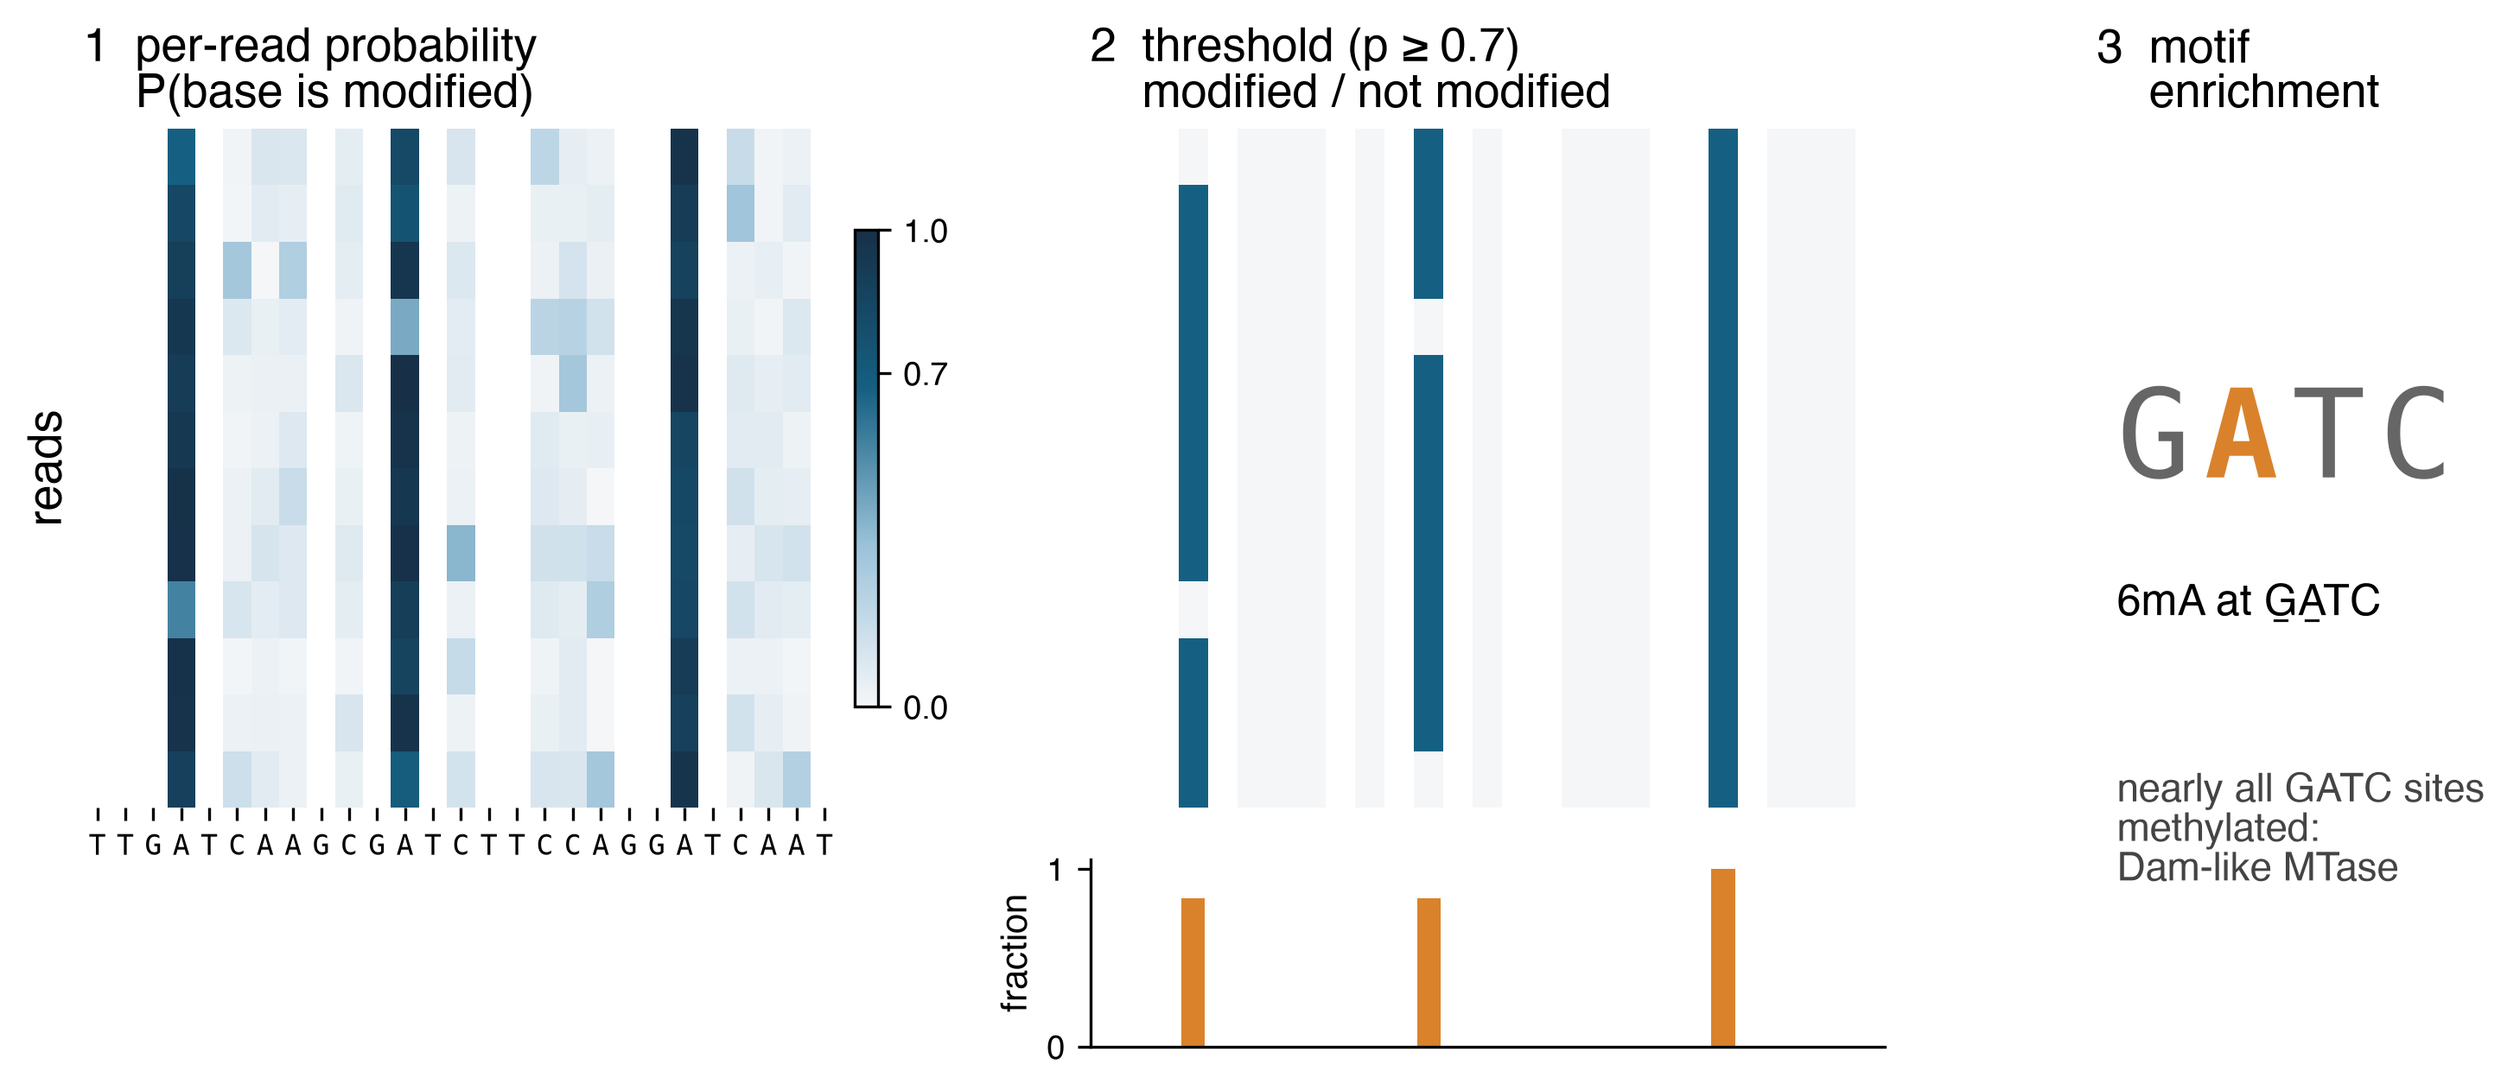
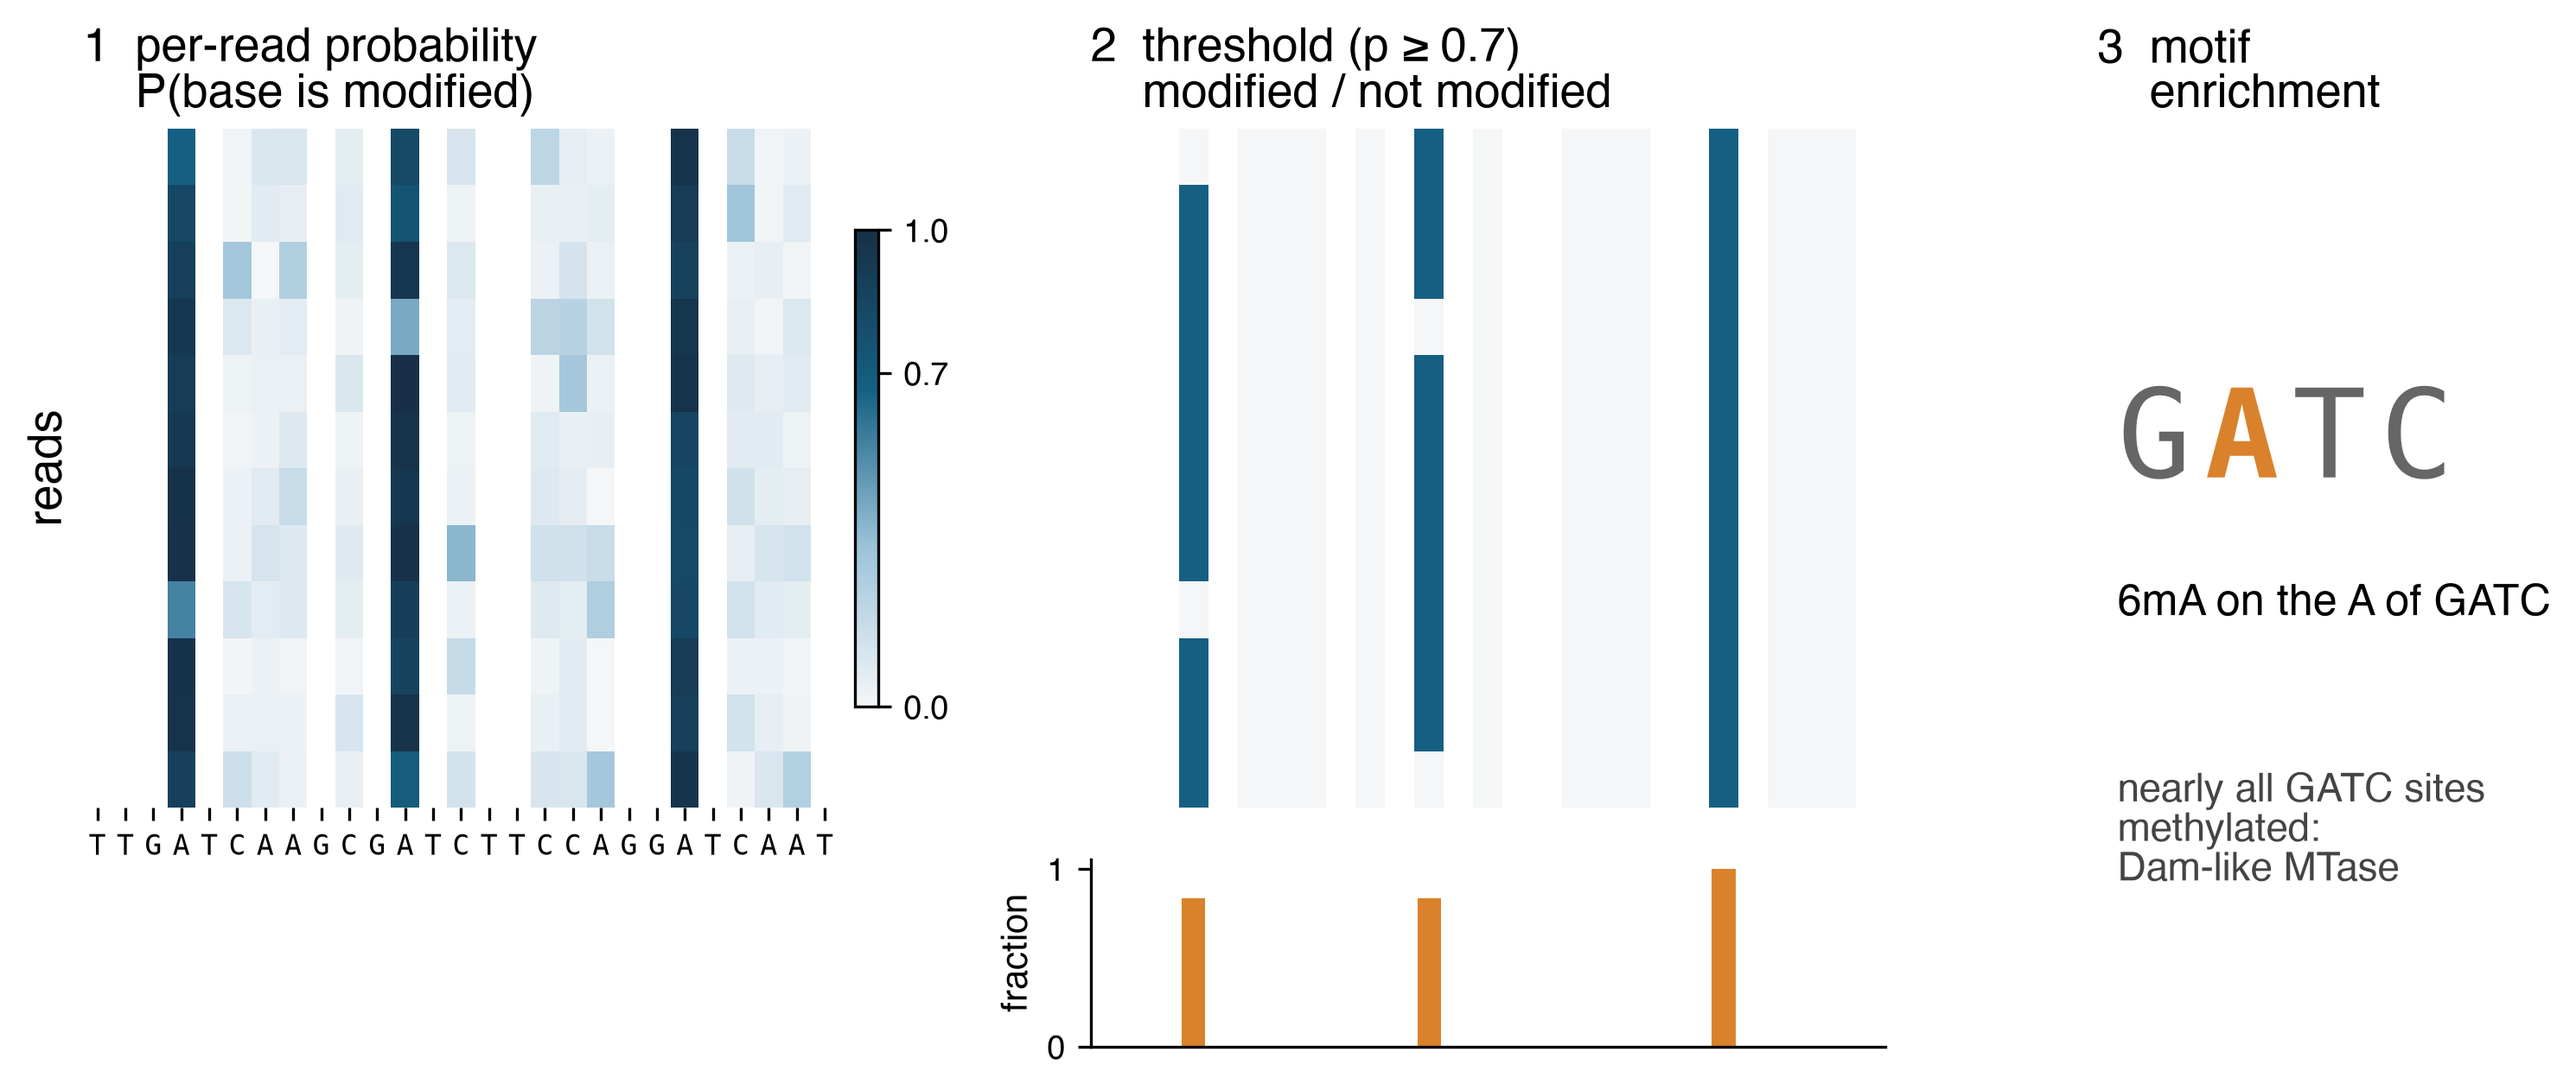
v04: cut main talk to 33 slides (~39.5 min), automatic note timings
- 2023 benchmark, raw-signal dataset, pipeline, lab reproducibility and
  unseen-species slides moved to the appendix (labelled APPENDIX)
- merged: calls-to-motifs + pipeline; methylation profiles + reproducibility
- speaker-note timings computed from a per-slide duration table
- schematic: fix motif label

diff --git a/scripts/build_deck.py b/scripts/build_deck.py
@@ -24,7 +24,7 @@ from pptx.opc.constants import RELATIONSHIP_TYPE as RT
 from pptx.oxml.ns import qn
 from pptx.util import Emu, Inches, Pt
 
-VERSION = "v03"
+VERSION = "v04"
 REPO = "github.com/hoelzer/habil-talk-2026"   # public repo, created 2026-11-18
 ROOT = Path(__file__).resolve().parents[1]
 SRC = ROOT / "2026-FU-Habil-Hoelzer-Talk.pptx"
@@ -355,14 +355,18 @@ add_text(s, ["5 labs · 4 species · > 500 datasets",
              "R10.4.1, same chemistry everywhere",
              ("Errors are strain-specific", {"bold": True}),
              ("… and occur in every lab", {"bold": True}),
-             "Some strains far above the cluster threshold"],
+             "Some strains far above the cluster threshold",
+             ("Before (2023): fine for some species, not for all", {"color": GREY, "size": 12})],
          7.0, TT, 2.8, TH, size=13, bullets=True, space=6)
 takeaway(s, "Same chemistry, same strain: the genotype is not always reproducible.", "II")
-cite(s, "Dabernig-Heinz, Lohde, Hölzer et al. J Clin Microbiol 2024, 62:e00628-24")
+cite(s, "Dabernig-Heinz, Lohde, Hölzer et al. J Clin Microbiol 2024, 62:e00628-24; Linde, Brangsch, Hölzer et al. BMC Genomics 2023")
 notes(s, """
 [14 min, 1.5 min] Multicenter study (Graz, Jena, Greifswald, Vienna, RKI). Each lab
 sequenced the same strains. Plot: allele differences to the Illumina reference, per lab;
 line = cluster threshold. Most strains fine, a few strains wrong in every lab.
+One sentence on the history: our 2023 benchmark with FLI (B. anthracis, Brucella,
+Francisella) already showed that ONT typing worked for some species but not for all
+(details in the appendix).
 """)
 S["p2024"] = s
 
@@ -522,16 +526,22 @@ S["rm"] = s
 
 s = O(23)
 remove_shapes(s)
-set_title(s, "From probabilistic calls to motifs")
-add_fig(s, G / "fig_calls_to_motif.png", 0.3, 0.78, 9.4, 3.75)
+set_title(s, "From probabilistic calls to motifs, automated")
+add_fig(s, G / "fig_calls_to_motif.png", 0.3, 0.9, 6.3, 3.5)
+add_fig(s, ROOT / "figures/received/valentina-workflow.png", 6.75, 0.85, 3.0, 2.0)
+add_text(s, ["ont-methylation: Dorado → alignment → modkit → motifs",
+             ("Nextflow; proposed to nf-core", {"bold": True})],
+         6.8, 2.95, 2.95, 1.4, size=12, bullets=True, space=4)
 takeaway(s, "Choices matter: probability threshold, coverage, partially methylated sites.", "III")
-cite(s, "Schematic (toy data). Threshold 0.7 as in Galeone et al. BMC Genomics 2025")
+cite(s, "Schematic (toy data); threshold 0.7 as in Galeone et al. BMC Genomics 2025. Pipeline: github.com/rki-mf1/ont-methylation")
 notes(s, """
 [26.5 min, 1.5 min] The computational chain. (1) The basecaller reports, per read and per
 base, a probability that the base is modified. (2) We threshold (0.7, from our 2025
 benchmark). (3) Per genome position: fraction of reads called modified. (4) Motif search:
 which short sequences are (almost) always modified? Partial methylation and low coverage
 make steps 2-4 uncertain.
+Right: Valentina's Nextflow pipeline automates exactly this chain (Dorado with modification
+models, alignment, modkit pileup and motif search, reports); proposed to nf-core.
 """)
 S["calls"] = s
 
@@ -555,13 +565,18 @@ S["pipeline"] = s
 
 s = O(25)
 remove_shapes(s)
-add_fig(s, C / "phd_methyl_table.png", 0.3, 0.78, 9.4, 3.8)
-takeaway(s, "Each strain has its own motif set — known and new motifs.", "III")
-cite(s, "Galeone, Dabernig-Heinz, Lohde, Brandt, Kohler, Wagner, Hölzer. BMC Genomics 2025, 26:394")
+set_title(s, "Distinct and reproducible methylation profiles")
+add_fig(s, C / "phd_methyl_table.png", 0.3, 0.78, 5.9, 3.8)
+add_fig(s, P / "p5_methylome_bmc2025/img-003.png", 6.35, 0.78, 3.4, 3.8)
+takeaway(s, "Each strain has its own motif set — and three labs agree on it.", "III")
+cite(s, "Galeone, Dabernig-Heinz, Lohde, Brandt, Kohler, Wagner, Hölzer. BMC Genomics 2025, 26:394 (table: V. Galeone)")
 notes(s, """
 [29 min, 1.5 min] Four public-health species, two isolates each. Blue = methylated base,
 orange = methylated on the opposite strand. Even two isolates of the same species carry
 different motifs (e.g. the two K. pneumoniae). We found known motifs and new ones.
+Right: methylated fraction per motif in three labs — fully methylated motifs agree.
+Mention verbally: the 2026 ten-lab study confirmed this in five labs; differences only for
+partially methylated motifs (figure in the appendix).
 """)
 S["profiles"] = s
 
@@ -589,8 +604,8 @@ add_fig(s, C / "phd_ehec_outbreak.png", 0.3, 0.78, 9.4, 3.8)
 takeaway(s, "The pipeline runs on outbreak genomes, not only on reference strains.", "III")
 cite(s, "Lang, Fruth, Sedaghatjoo, Galeone, Flieger. Microbiol Resour Announc 2026, 15(10):e00231-26; with RKI FG11")
 notes(s, """
-[32 min, 1 min] Back to the first outbreak of the talk. For the 2025 EHEC O45:H2 genomes,
-our pipeline added methylation profiles (here: GATC methylation along the genome).
+Bookend only, no details: back to the first outbreak of the talk — our pipeline added
+methylation profiles to the 2025 EHEC O45:H2 genomes.
 """)
 S["ehec"] = s
 
@@ -829,12 +844,44 @@ SPARE = [O(i) for i in (38, 40, 41, 42, 43, 44, 46, 47, 48, 49, 50)]
 
 ORDER = ["title", "outbreaks", "mst", "technical", "contrib", "promise",
          "sec1", "howworks", "basecalling", "sim1", "sim2",
-         "sec2", "p2023", "p2024", "motifs", "assembly", "p2026", "alpaqa", "mabs", "twist",
-         "sec3", "rawdata", "rm", "calls", "pipeline", "profiles", "repro", "ehec",
-         "sec4", "question", "style", "seven", "strains", "unseen", "host", "outlook",
-         "lessons", "ack",
-         "app", "app_model", "app_graph", "app_eval", "app_results"]
-final = [S[k] for k in ORDER] + SPARE
+         "sec2", "p2024", "motifs", "assembly", "p2026", "alpaqa", "mabs", "twist",
+         "sec3", "rm", "calls", "profiles", "ehec",
+         "sec4", "question", "style", "seven", "strains", "host", "outlook",
+         "lessons", "ack"]
+# slides moved out of the main talk (v04): kept as backup in the appendix
+MOVED = ["p2023", "rawdata", "pipeline", "repro", "unseen"]
+APPENDIX = ["app", "app_model", "app_graph", "app_eval", "app_results"] + MOVED
+final = [S[k] for k in ORDER + APPENDIX] + SPARE
+
+# ---------------------------------------------------------------- timing in speaker notes
+# minutes per main slide; notes get "[start, duration]" automatically
+DUR = {"title": .5, "outbreaks": 1, "mst": 1.5, "technical": 1, "contrib": 1.5, "promise": 1.5,
+       "sec1": .25, "howworks": 1.5, "basecalling": 1, "sim1": 1.5, "sim2": 1.5,
+       "sec2": .25, "p2024": 1.5, "motifs": 1.5, "assembly": 1.5, "p2026": 1.5,
+       "alpaqa": 1.5, "mabs": 1.5, "twist": .5,
+       "sec3": .25, "rm": 1.5, "calls": 2, "profiles": 2, "ehec": .5,
+       "sec4": .25, "question": 1.5, "style": 1.5, "seven": 1, "strains": 1.5, "host": 1.5,
+       "outlook": 1, "lessons": 2, "ack": .5}
+import re  # noqa: E402
+t = 0.0
+for k in ORDER:
+    sl = S[k]
+    old = sl.notes_slide.notes_text_frame.text if sl.has_notes_slide else ""
+    body = re.sub(r"^\s*\[[^\]]*\]\s*", "", old)
+    sl.notes_slide.notes_text_frame.text = f"[{t:g} min, {DUR[k]:g} min] " + body
+    t += DUR[k]
+TOTAL_MIN = t
+for k in MOVED:                                    # relabel part tag as APPENDIX
+    sl = S[k]
+    old = sl.notes_slide.notes_text_frame.text
+    sl.notes_slide.notes_text_frame.text = "[Appendix / backup] " + re.sub(r"^\s*\[[^\]]*\]\s*", "", old)
+    for sh in sl.shapes:
+        if sh.has_text_frame and sh.text_frame.text.strip().startswith("PART"):
+            runs = [r for p_ in sh.text_frame.paragraphs for r in p_.runs]
+            if runs:
+                runs[0].text = "APPENDIX"
+                for r in runs[1:]:
+                    r.text = ""
 
 # ---------------------------------------------------------------- reorder / delete
 sldIdLst = prs.slides._sldIdLst
@@ -866,4 +913,5 @@ for n, sl in enumerate(prs.slides, 1):
 OUT.parent.mkdir(exist_ok=True)
 prs.save(OUT)
 print(f"saved {OUT.relative_to(ROOT)}: {len(prs.slides)} slides "
-      f"({len(ORDER) - 5} main incl. sections, {5 + len(SPARE)} appendix)")
+      f"({len(ORDER)} main incl. sections, {len(APPENDIX) + len(SPARE)} appendix); "
+      f"planned talk time {TOTAL_MIN:g} min")

diff --git a/scripts/fig_schematics.py b/scripts/fig_schematics.py
@@ -92,7 +92,7 @@ ax4.text(0.27, 0.62, "A", fontsize=34, family="Menlo", color=C_ORANGE, weight="b
          transform=ax4.transAxes)
 ax4.text(0.49, 0.62, "T", fontsize=34, family="Menlo", color="#666", transform=ax4.transAxes)
 ax4.text(0.71, 0.62, "C", fontsize=34, family="Menlo", color="#666", transform=ax4.transAxes)
-ax4.text(0.05, 0.47, "6mA at G̲A̲TC", fontsize=12, transform=ax4.transAxes)
+ax4.text(0.05, 0.47, "6mA on the A of GATC", fontsize=12, transform=ax4.transAxes)
 ax4.text(0.05, 0.30, "nearly all GATC sites\nmethylated:\nDam-like MTase", fontsize=11,
          color="#444", transform=ax4.transAxes, va="top")
 fig.savefig(OUT / "fig_calls_to_motif.png", bbox_inches="tight", facecolor="white")
